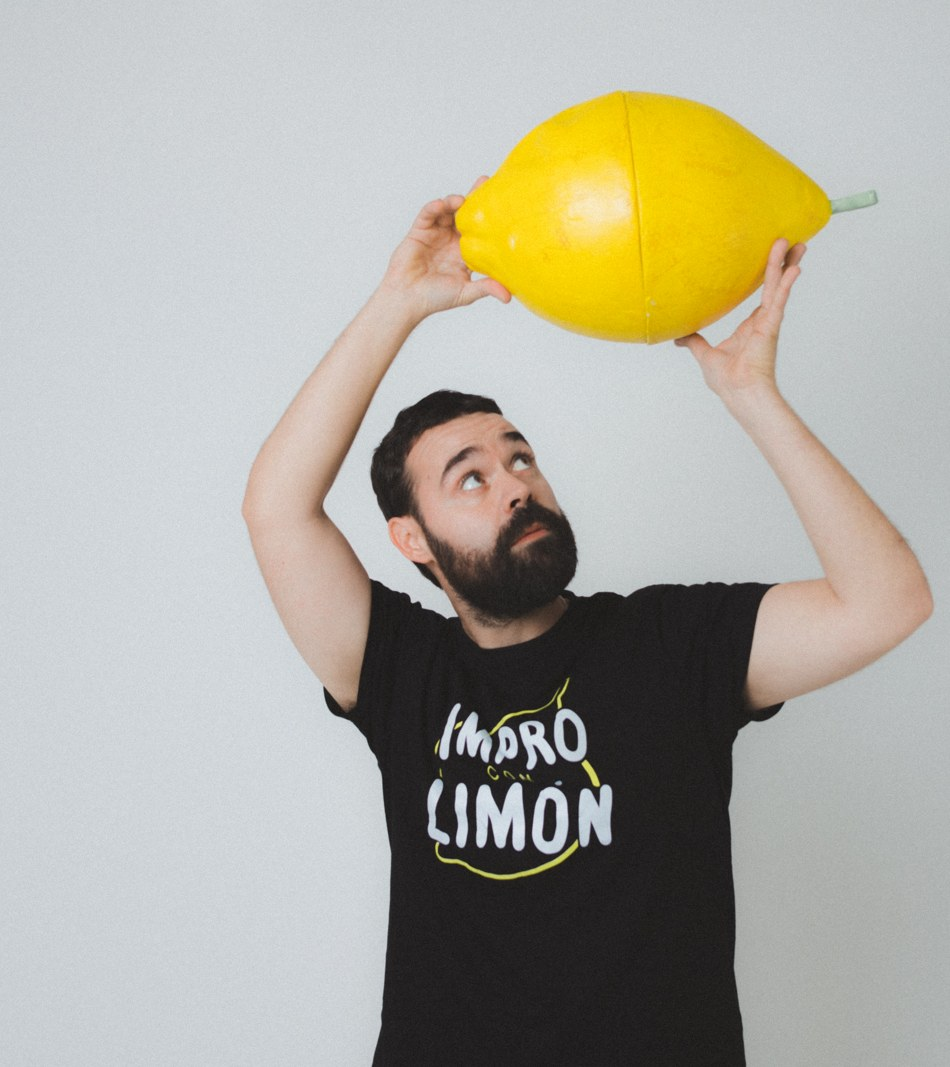
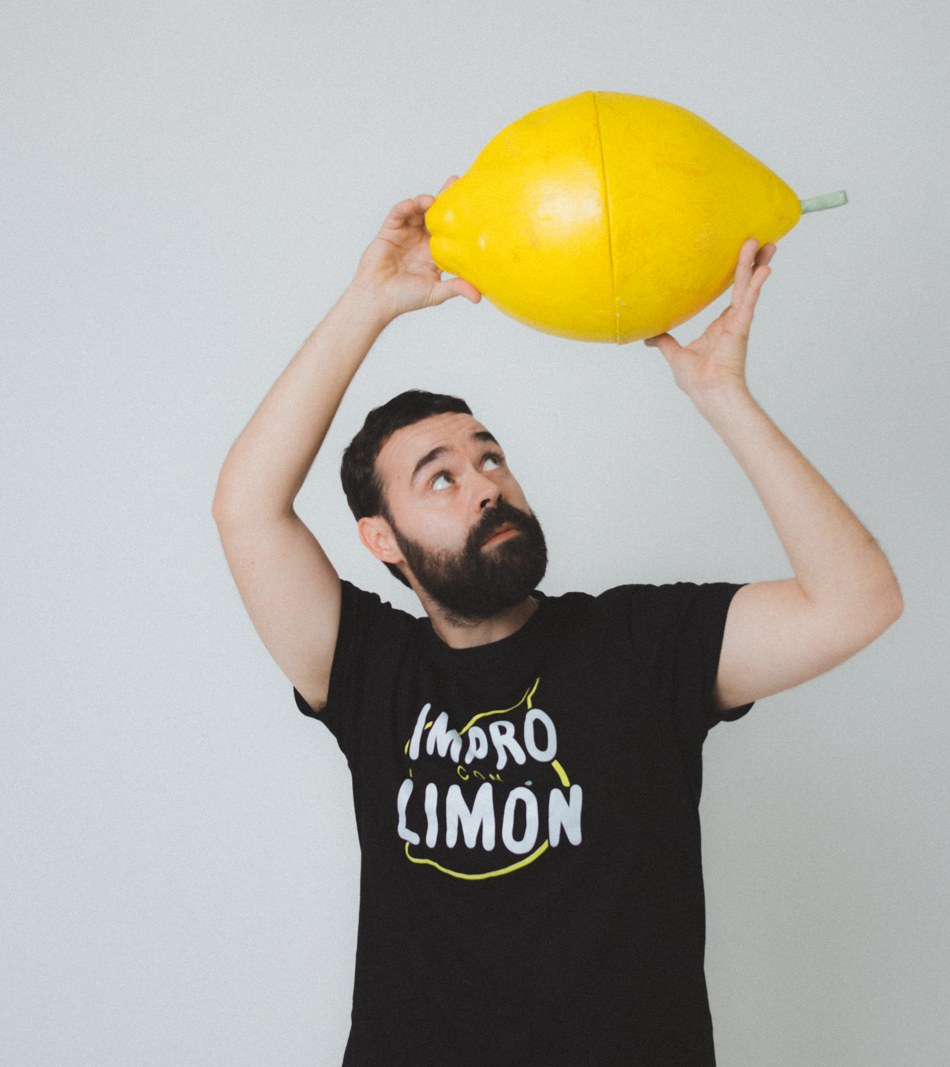
Shift Héctor mobile photo slightly left

Changed region(s): [[0.2137, 0.0619, 1.0, 1.0], [0.6411, 0.5258, 0.6716, 0.5567]]

diff --git a/index.html b/index.html
@@ -17,7 +17,7 @@
   <link rel="preconnect" href="https://fonts.googleapis.com">
   <link rel="preconnect" href="https://fonts.gstatic.com" crossorigin>
   <link href="https://fonts.googleapis.com/css2?family=Londrina+Solid:wght@300;400;900&family=Open+Sans:wght@400;600;700&display=swap" rel="stylesheet">
-  <link rel="stylesheet" href="styles.css?v=265">
+  <link rel="stylesheet" href="styles.css?v=266">
 </head>
 <body>
 <svg width="0" height="0" style="position:absolute" aria-hidden="true"><filter id="to-lemon" color-interpolation-filters="sRGB"><feColorMatrix type="matrix" values="0 0 0 0 .961  0 0 0 0 .902  0 0 0 0 .122  0 0 0 1 0"/></filter></svg>

diff --git a/styles.css b/styles.css
@@ -945,7 +945,7 @@ footer .social svg{width:26px;height:26px}
 
 /* Héctor en móvil (marco vertical): se desplaza el recorte para que no se corten los brazos */
 @media(max-width:900px),(max-aspect-ratio:1/1){
-  #actores .m-pic[src*="hector/1"]{content:url(img/hector/1-movil.jpg?v=5);object-position:50% 20%!important}
+  #actores .m-pic[src*="hector/1"]{content:url(img/hector/1-movil.jpg?v=6);object-position:50% 20%!important}
   #actores .m-pic[src*="hector/2"]{object-position:18% 20%!important}
 }
 
